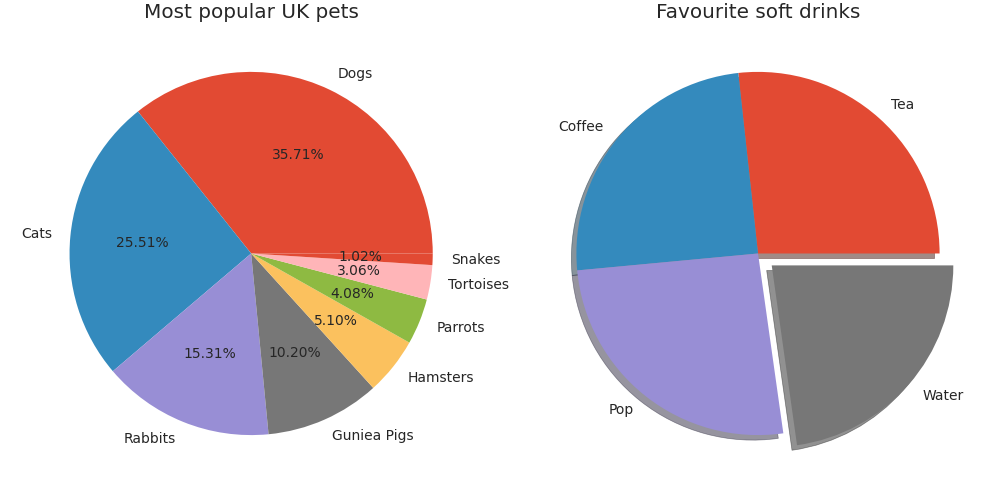
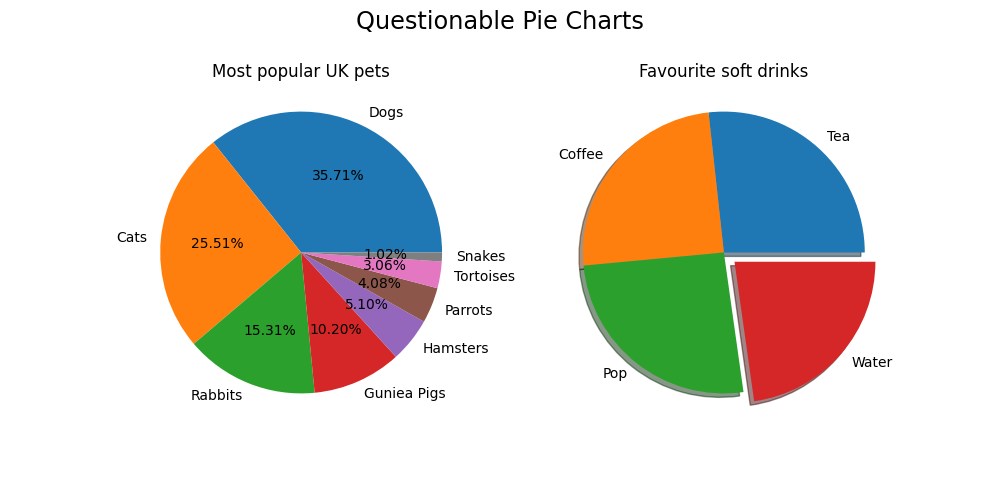
feat: Add external links to pie charts post

diff --git a/_posts/2023-07-27-In-Defence-of-Pie-Charts.md b/_posts/2023-07-27-In-Defence-of-Pie-Charts.md
@@ -10,12 +10,17 @@ member of the pie chart hate-brigade. In fact, in reading this post, there is a
 good chance that you're _already_ a member of this group, rallying to heap
 further criticism on your least favourite graphic!
 
-Yes, data science communities are now _littered_ with posts and comments
+Yes, data science communities are _littered_ with posts and comments
 maligning the much-scorned pie chart. One really doesn't have to spend too much
-time browsing these communities to see the pie chart receiving a good
-lambasting. Users criticise pie charts with many, often tiny, incomparable
-segments; the pie chart's inability to communicate precise numbers, and their
+time browsing these communities to see the pie chart receiving a good dressing
+down. Users criticise pie charts with many, often tiny, incomparable segments;
+the pie chart's inability to communicate precise numbers, and their perceived
 general inferiority to bar charts.
+
+See, for example, from Data to Viz's post ["The issue with pie charts"](https://www.data-to-viz.com/caveat/pie.html),
+or insider.com's article ["The Worst Chart In The World"](https://www.businessinsider.com/pie-charts-are-the-worst-2013-6).
+Even the pre-eminent Edward Tufte is a critic, quoting: "the only worse design
+than a pie chart is several of them"!
 
 <!--
 fig, ax = plt.subplots(1, 2, figsize=(10, 5))
@@ -27,7 +32,7 @@ ax[0].pie(
     labels=labels,
     autopct=lambda p: '{:.2f}%'.format(p),
 )
-ax[0].set_title("Most popular UK pets")
+ax[0].set_title("Most popular UK pets", y=0.975)
 
 x = [27, 25, 26, 23]
 labels = ["Tea", "Coffee", "Pop", "Water"]
@@ -37,9 +42,9 @@ ax[1].pie(
     shadow=True,
     explode=([0] * (len(x) - 1) + [0.1])
 )
-ax[1].set_title("Favourite soft drinks")
+ax[1].set_title("Favourite soft drinks", y=0.975)
 
-fig.tight_layout()
+fig.suptitle("Questionable Pie Charts", fontsize="xx-large")
 fig.savefig("questionable_pies.png")
 -->
 
@@ -47,30 +52,27 @@ fig.savefig("questionable_pies.png")
 
 And truthfully, _these criticisms have weight_. It is undoubtedly true that pie
 charts are frequently used in situations where another graph would have been
-more appropriate. Pie charts with many segments generally can be difficult to
-read, and it really is hard to make comparison between several similarly
+more appropriate. Pie charts with many segments generally are difficult to
+read, and it really _is_ hard to make comparison between several similarly
 sized pie chart segments.
 
 However, the pie chart's misuse does not mean that it is an _inherently bad_
-graphic. Perhaps there's no such as thing as an inherently bad graph, only bad
-communicators.
-
-Additionally, what was once a "hot-take" in data visualisation has now become
-so often mindlessly parroted, that the debate itself has lost meaning and any
-semblance of nuance, deteriorating into a "pie chart bad; bar chart good"
+graphic. Additionally, what was once a "hot take" in data visualisation has now
+become so often mindlessly parroted, that the debate itself has lost meaning and
+any semblance of nuance, deteriorating into a "pie chart bad; bar chart good"
 groupthink.
 
 So, when might a pie chart be an appropriate choice of graphic? To think about
 this, we're going to consider:
 
-1. The _type_ of data we're trying to visualise;
-2. The _story_ we're trying to tell;
+1. The _type_ of data we're trying to visualise,
+2. The _story_ we're trying to tell,
 3. The _context_ in which we'll be displaying our graphic.
 
 Considering points 1. and 2., I might conclude that an appropriate time to use a
 pie chart would be in situations when there is only a small number of groups to
-visualise (2--3 groups, or perhaps 4, at a push), and where accurate comparisons
-between similarly-sized groups is _not_ required.
+visualise (2--3 groups, say), and where accurate comparisons between
+similarly sized groups are _not_ required.
 
 Context (point 3.) is a very important consideration for what is an appropriate
 choice of graph too. Is your graph to be inserted into a technical report or
@@ -102,21 +104,25 @@ fig.savefig("better_pie.png")
 ![Better Pie Chart](/assets/posts/pies/better_pie.png)
 
 Consider the above plot. This pie chart may be a perfectly good choice of
-graphic to display in a powerpoint presentation to a marketing team, where the
+graphic to display in a PowerPoint presentation to a marketing team, where the
 message we're trying to communicate is "We have low brand-recognition". Note
-that the exact numbers might not be particular important in this context: we
+that the exact numbers might not be particularly important in this context: we
 might not _really care_ if 16% vs 19% of people were aware of our brand, the
-point is that the _majority of people_ surveyed weren't brand-aware. And sure,
-we _could_ have added the exact numbers to this plot, but if we don't _need_ the
-numbers to communicate our message, we're just adding unnecessary and potentially
-distracting noise to our presentation.
+point is that the _majority of people_ weren't brand-aware. Additionally, the
+familiarity and universality of the pie chart means that it can be quickly and
+intuitively interpreted---a great asset for a plot that's on-screen for a short
+amount of time.
 
 But that's enough about pie charts. My argument in this post really isn't
 supposed to be "pie charts are good", nor is it _really_ about pie charts at
-all.  What I'm trying to argue is that _all_ graph types have their pros and
-cons, as well as situations when they are and aren't appropriate.  My argument is
-that as data communicators, we should always strive to choose the graphic which
-best communicates our message, in the given context, _regardless_ of what graph
-that might be. My argument is that we should always think critically about how
-we might best visualise our data, and that graphical-dogma hardly seems the best
+all.
+
+What I'm trying to argue is that _all_ graph types have their pros and cons, as
+well as situations when they are and aren't appropriate. My argument is that as
+data communicators, we should always strive to choose the graphic which best
+communicates our message, in the given context, _regardless_ of what graph that
+might be. My argument is that we should always think critically about how we
+might best visualise our data, and that graphical dogma doesn't seem the best
 way to go about this.
+
+_PS. I offer no defence of the "3D" pie chart. That chart may truly be indefensible..._
